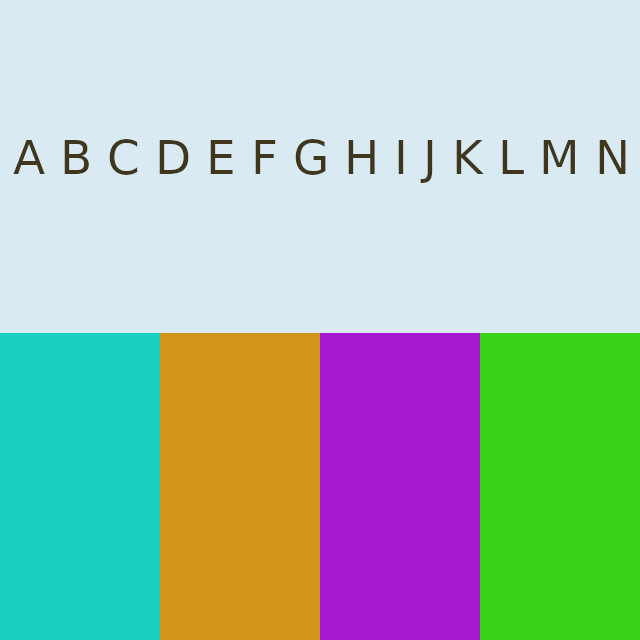
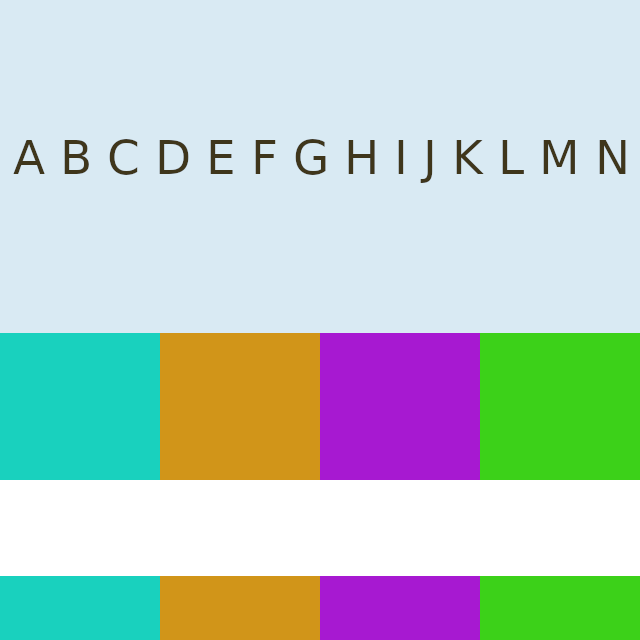
parallax scroll image layer

Changed region(s): [[0.0, 0.75, 1.0, 0.9062]]

diff --git a/src/main/java/brot/lwjgl/engine/scene/layers/ImageLayer.java b/src/main/java/brot/lwjgl/engine/scene/layers/ImageLayer.java
@@ -6,21 +6,28 @@ import org.joml.Vector2f;
 import java.util.Vector;
 
 public class ImageLayer extends SceneLayer {
+    protected float imageWidth;
+    protected float imageHeight;
+
     /**
      * Creates a new ImageLayer object.
      *
      * @param id Layer ID.
      */
-    public ImageLayer(String id) {
+    public ImageLayer(String id, float imageWidth, float imageHeight) {
         super(id);
+        this.imageWidth = imageWidth;
+        this.imageHeight = imageHeight;
     }
 
     public Vector2f getDisplacement(Matrix4f viewMatrix) {
-        float textureWidth = 640;
-        float layerWidth = 960;
+        float viewportWidth = 640;
         float viewportX = viewMatrix.m30();
-        float parallaxFactorX = 1;
-        float displace = -1 * viewportX / 2560f;
+        float parallaxFactorX = .5f;
+
+        float offsetX = (1 - parallaxFactor.x) * -0.5f * (viewportWidth / imageWidth);
+        float displace = offsetX - .2f; // (.75) + 0.1875f; // (.5) + .125f;
+        displace = offsetX + viewportX / (imageWidth / (1f - parallaxFactor.x));
         return new Vector2f(displace, 0);
     }
 

diff --git a/src/main/java/brot/lwjgl/engine/tiled/TiledImageLayer.java b/src/main/java/brot/lwjgl/engine/tiled/TiledImageLayer.java
@@ -5,6 +5,8 @@ import brot.lwjgl.engine.graph.mesh.Quad;
 import brot.lwjgl.engine.graph.model.Sprite;
 import brot.lwjgl.engine.graph.texture.SpriteSheet;
 import brot.lwjgl.engine.scene.Entity;
+import brot.lwjgl.engine.scene.layers.ImageLayer;
+import brot.lwjgl.engine.scene.layers.SceneLayer;
 import brot.lwjgl.engine.tiled.xml.BooleanIntegerAdapter;
 import brot.lwjgl.engine.util.XmlLoader;
 import jakarta.xml.bind.annotation.XmlAttribute;
@@ -42,8 +44,15 @@ public class TiledImageLayer extends TiledLayer {
     }
 
     @Override
+    protected SceneLayer getSceneLayerInstance(TiledMap map) {
+        ImageLayer layer = new ImageLayer(SceneLayer.ID_FORMAT.formatted(id), image.width, image.height);
+        layer.setParallaxFactor(getParallaxFactor());
+        return layer;
+    }
+
+    @Override
     public List<Entity> getEntities(TiledMap map) {
-        return List.of(new Entity("imagelayer-%s-1".formatted(this.id), getSpriteId()));
+        return List.of(new Entity(Entity.ID_FORMAT.formatted(this.id, 1), getSpriteId()));
     }
 
     @Override

diff --git a/src/main/java/brot/lwjgl/engine/tiled/TiledLayer.java b/src/main/java/brot/lwjgl/engine/tiled/TiledLayer.java
@@ -2,6 +2,9 @@ package brot.lwjgl.engine.tiled;
 
 import brot.lwjgl.engine.graph.model.Sprite;
 import brot.lwjgl.engine.scene.Entity;
+import brot.lwjgl.engine.scene.Scene;
+import brot.lwjgl.engine.scene.layers.ImageLayer;
+import brot.lwjgl.engine.scene.layers.SceneLayer;
 import brot.lwjgl.engine.tiled.xml.BooleanIntegerAdapter;
 import brot.lwjgl.engine.util.XmlLoader;
 import jakarta.xml.bind.annotation.XmlAttribute;
@@ -86,6 +89,14 @@ public abstract class TiledLayer {
         return gid & ~(TiledTile.FLIPPED_HORIZONTALLY_FLAG
                 | TiledTile.FLIPPED_VERTICALLY_FLAG
                 | TiledTile.FLIPPED_DIAGONALLY_FLAG);
+    }
+
+    protected abstract SceneLayer getSceneLayerInstance(TiledMap map);
+
+    public SceneLayer getSceneLayer(TiledMap map) {
+        SceneLayer layer = getSceneLayerInstance(map);
+        layer.setVisible(visible == null || visible);
+        return layer;
     }
 
 }

diff --git a/src/main/java/brot/lwjgl/engine/scene/layers/SceneLayer.java b/src/main/java/brot/lwjgl/engine/scene/layers/SceneLayer.java
@@ -12,6 +12,7 @@ import java.util.*;
  * Defines a SceneLayer object.
  */
 public class SceneLayer {
+    public static String ID_FORMAT = "layer-%s";
     protected Map<String, Sprite> sprites;
     protected Map<SpriteSheet, Collection<Sprite>> textures;
     protected Map<Sprite.CollisionObject, List<Entity>> collisionObjects;
@@ -21,6 +22,8 @@ public class SceneLayer {
     protected int weight;
     protected boolean visible;
     protected Vector2f parallaxFactor;
+    protected float width;
+    protected float height;
 
     /**
      * Creates a new SceneLayer object.
@@ -71,6 +74,11 @@ public class SceneLayer {
 
     public void setVisible(boolean visible) {
         this.visible = visible;
+    }
+
+    public void setDimension(float width, float height) {
+        this.width = width;
+        this.height = height;
     }
 
     public boolean isVisible() {

diff --git a/src/main/java/brot/lwjgl/game/scene/TiledMapScene.java b/src/main/java/brot/lwjgl/game/scene/TiledMapScene.java
@@ -44,10 +44,13 @@ public class TiledMapScene {
         } else if (tiledLayer instanceof TiledObjectLayer) {
             sceneLayer = new ObjectLayer("tiled-layer-%s".formatted(tiledLayer.id));
         } else if (tiledLayer instanceof TiledImageLayer) {
-            sceneLayer = new ImageLayer("tiled-layer-%s".formatted(tiledLayer.id));
+            sceneLayer = tiledLayer.getSceneLayer(map);
         } else {
             throw new RuntimeException("Missing scene layer type for " + tiledLayer.getClass().getName());
         }
+        // Set visibility.
+        sceneLayer.setVisible(tiledLayer.visible == null || tiledLayer.visible);
+        // Add layer to scene.
         scene.addLayer(sceneLayer);
         // Set parallax factor.
         sceneLayer.setParallaxFactor(tiledLayer.getParallaxFactor());

diff --git a/src/main/java/brot/lwjgl/engine/tiled/TiledTileLayer.java b/src/main/java/brot/lwjgl/engine/tiled/TiledTileLayer.java
@@ -2,6 +2,7 @@ package brot.lwjgl.engine.tiled;
 
 import brot.lwjgl.engine.graph.model.Sprite;
 import brot.lwjgl.engine.scene.Entity;
+import brot.lwjgl.engine.scene.layers.SceneLayer;
 import jakarta.xml.bind.annotation.XmlElement;
 
 import java.util.*;
@@ -59,6 +60,11 @@ public class TiledTileLayer extends TiledLayer {
     @Override
     public Stream<Integer> getGids() {
         return data.getData().stream();
+    }
+
+    @Override
+    protected SceneLayer getSceneLayerInstance(TiledMap map) {
+        return null;
     }
 
 }

diff --git a/src/main/java/brot/lwjgl/game/scene/GraveScene.java b/src/main/java/brot/lwjgl/game/scene/GraveScene.java
@@ -41,7 +41,7 @@ public class GraveScene {
         } else if (tiledLayer instanceof TiledObjectLayer) {
             sceneLayer = new ObjectLayer("tiled-layer-%s".formatted(tiledLayer.id));
         } else if (tiledLayer instanceof TiledImageLayer) {
-            sceneLayer = new ImageLayer("tiled-layer-%s".formatted(tiledLayer.id));
+            sceneLayer = tiledLayer.getSceneLayer(map);
         } else {
             throw new RuntimeException("Missing scene layer type for " + tiledLayer.getClass().getName());
         }

diff --git a/src/main/java/brot/lwjgl/engine/tiled/TiledObjectGroup.java b/src/main/java/brot/lwjgl/engine/tiled/TiledObjectGroup.java
@@ -1,6 +1,7 @@
 package brot.lwjgl.engine.tiled;
 
 import brot.lwjgl.engine.scene.Entity;
+import brot.lwjgl.engine.scene.layers.SceneLayer;
 import jakarta.xml.bind.annotation.XmlAttribute;
 import jakarta.xml.bind.annotation.XmlElement;
 
@@ -22,6 +23,11 @@ public class TiledObjectGroup extends TiledLayer {
 
     @Override
     public Stream<Integer> getGids() {
+        return null;
+    }
+
+    @Override
+    protected SceneLayer getSceneLayerInstance(TiledMap map) {
         return null;
     }
 

diff --git a/src/main/java/brot/lwjgl/engine/scene/Entity.java b/src/main/java/brot/lwjgl/engine/scene/Entity.java
@@ -8,6 +8,10 @@ import org.joml.*;
  * - sprite dimension for collision detection
  */
 public class Entity {
+    /**
+     * 1st placeholder = layer ID, 2nd = entity ID.
+     */
+    public static final String ID_FORMAT = "entity-%s-%s";
     private final String id;
     private final String modelId;
     private final Matrix4f modelMatrix;
